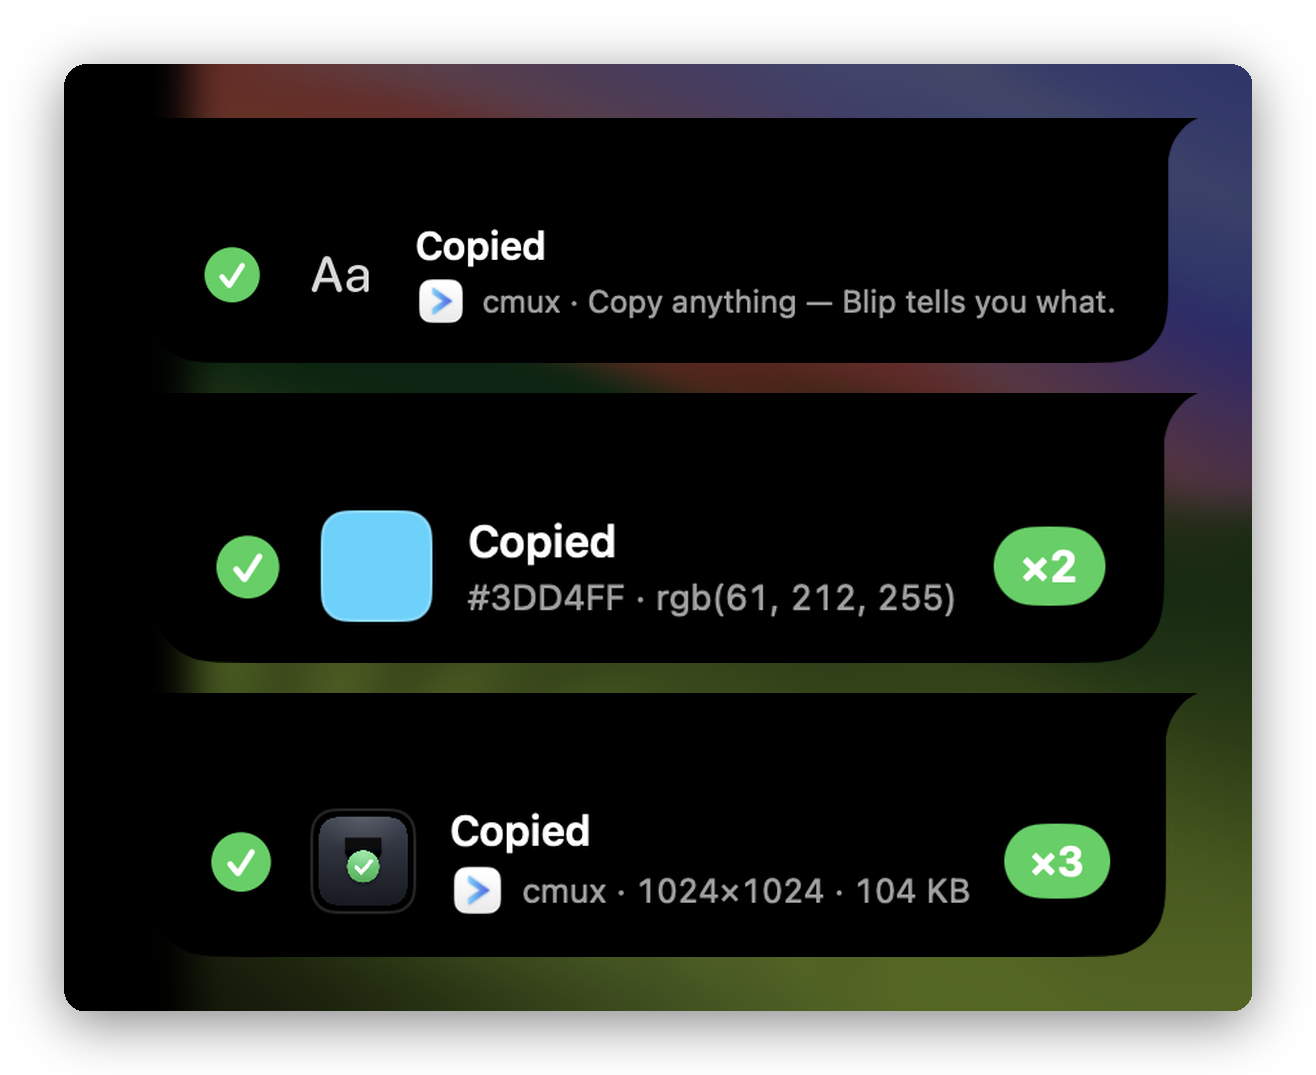
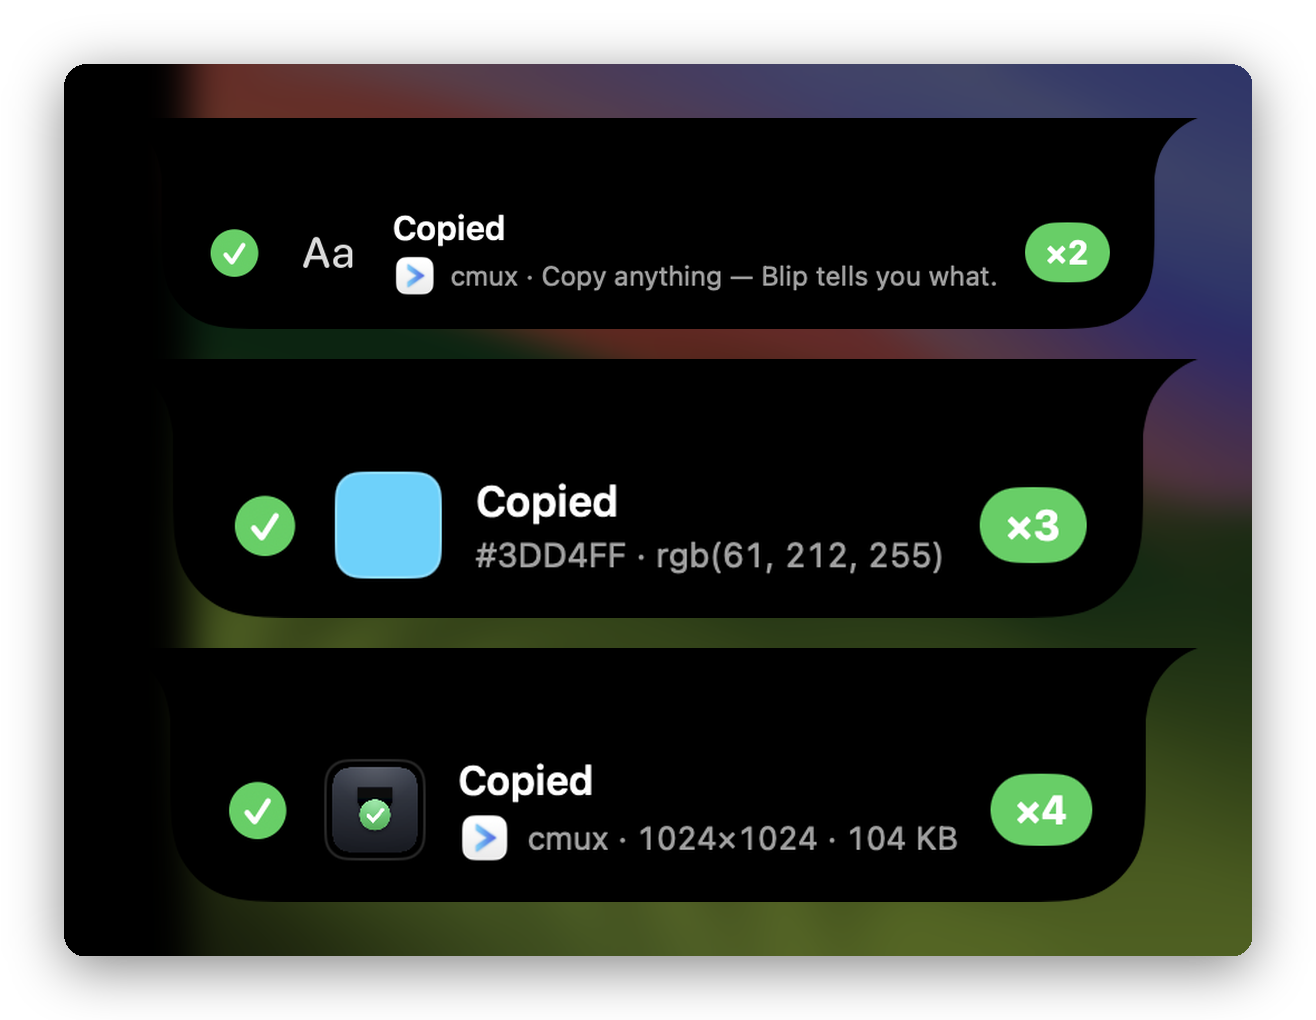
fix(ui): match NotchDrop notch geometry (radius 32, spacing 16)
Our concave-fillet technique was right but the radii were too tight (22/8).
NotchDrop uses corner radius 32 + spacing 16 — adopting those gives the smooth
large bottom corners and generous top fillets that flow out of the menu bar.
Updates the live pill shape and the README screenshots (on the Sonoma wallpaper).

Changed region(s): [[0.0623, 0.0912, 0.9658, 0.9422]]

diff --git a/Blip/UI/BlipView.swift b/Blip/UI/BlipView.swift
@@ -185,9 +185,9 @@ struct BlipView: View {
     @ViewBuilder
     private var background: some View {
         if model.hasNotch {
-            NotchBackground(radius: 22)
+            NotchBackground(radius: 32)
         } else {
-            RoundedRectangle(cornerRadius: 24, style: .continuous).fill(.black)
+            RoundedRectangle(cornerRadius: 32, style: .continuous).fill(.black)
         }
     }
 

diff --git a/Blip/UI/NotchBackground.swift b/Blip/UI/NotchBackground.swift
@@ -4,8 +4,8 @@ import SwiftUI
 /// *concave* fillets at the top-left/right so it flows out of the menu bar like
 /// the real notch. (Technique adapted from Lakr233/NotchDrop, MIT.)
 struct NotchBackground: View {
-    var radius: CGFloat = 13
-    private let spacing: CGFloat = 8
+    var radius: CGFloat = 32       // matches NotchDrop's opened corner radius
+    private let spacing: CGFloat = 16
 
     var body: some View {
         Rectangle()